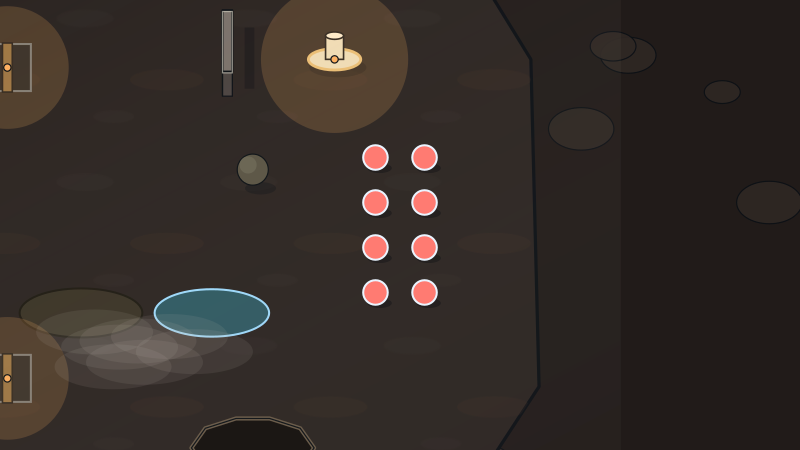
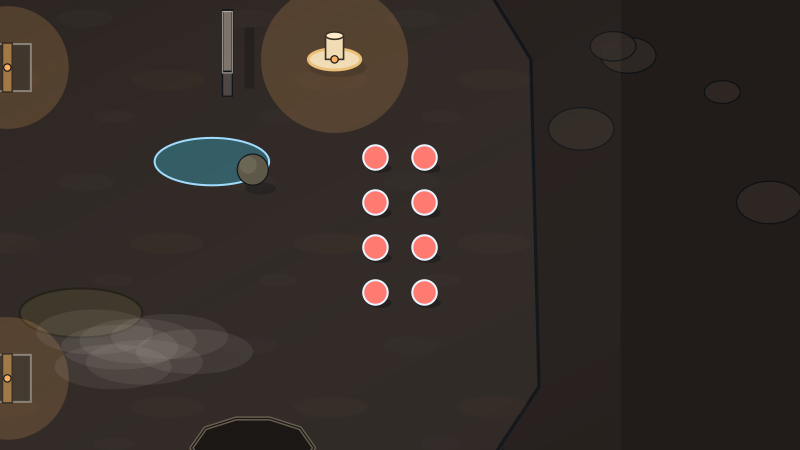
#3430: Scarred Earth: spring off the south lane, south lane through the hull stair, drops off the stairs

Changed region(s): [[0.1875, 0.6222, 0.3438, 0.7778], [0.1875, 0.28, 0.3438, 0.4356]]

diff --git a/docs/art/3075-scarred-earth.md b/docs/art/3075-scarred-earth.md
@@ -35,14 +35,14 @@ battlefield: craters as pits, trenches as tunnels, wrecked siege towers as tower
   120 u from a trench centre line (y 900 and y 1900), the outer lanes on the field edge (y 330, 2470);
   a route only crosses a trench at right angles. Cover shows the seam and grating slots (#3236), as
   wide as the walkable floor (#3179).
-- **Drop-offs (4):** the great hulk's north and south edges, the NW hulk's west edge and the NE
-  hulk's east edge (x-mirrored).
+- **Drop-offs (4):** the great hulk's north-west and north-east edges (off its stairs), the NW hulk's
+  west edge and the NE hulk's east edge (x-mirrored).
 - **Elements:** four **trench gates** start shut. Two brass **levers** on the hulk bases, (1550,640)
   **opens both north gates** and (3850,2160) **both south gates**: either team can open a trench, and
   a pulled lever opens it for both. No lift is used. Two **breakable wrecked palisades**, a mirrored
   pair (x 950..974 and x 4426..4450, y 880..1030), each close a short-cut between the two lanes
   beside the shrine, 100 u or more off every route. Zones: a `mire` and a `spring` for each team,
-  the same on both sides (mire (1320,1620), spring (1000,1620) west, mirrored east), off every route
+  the same on both sides (mire (1320,1620), spring (1000,1250) west, mirrored east), off every route
   and ≥ 200 u from a spawn and a shrine. Atmosphere (existing, #3032): three smoke banks, under
   bodies, never over a point, a stair or a lever. One `canopy` overhang (a toppled beam) off every
   route.
@@ -73,7 +73,7 @@ the gap the structure gives, not a promise about the final art.
 | 4 / 5 own hulk, south | 13.2 s                 | 9.0 s      |
 | 2 / 1 far hulk, north | 23.8 s                 | 19.6 s     |
 | 5 / 4 far hulk, south | 23.8 s                 | 19.5 s     |
-| 3 great hulk (centre) | 12.0 s (west approach) | 15.4 s     |
+| 3 great hulk (centre) | 12.0 s (west approach) | 15.3 s     |
 
 A far hulk is a 19.5..23.8 s walk, under 25 s. **4v4 plays the whole map from 8v8's camps** (architect
 decision): no second spawn set; the fight with the centre is 12 s from a spawn.
